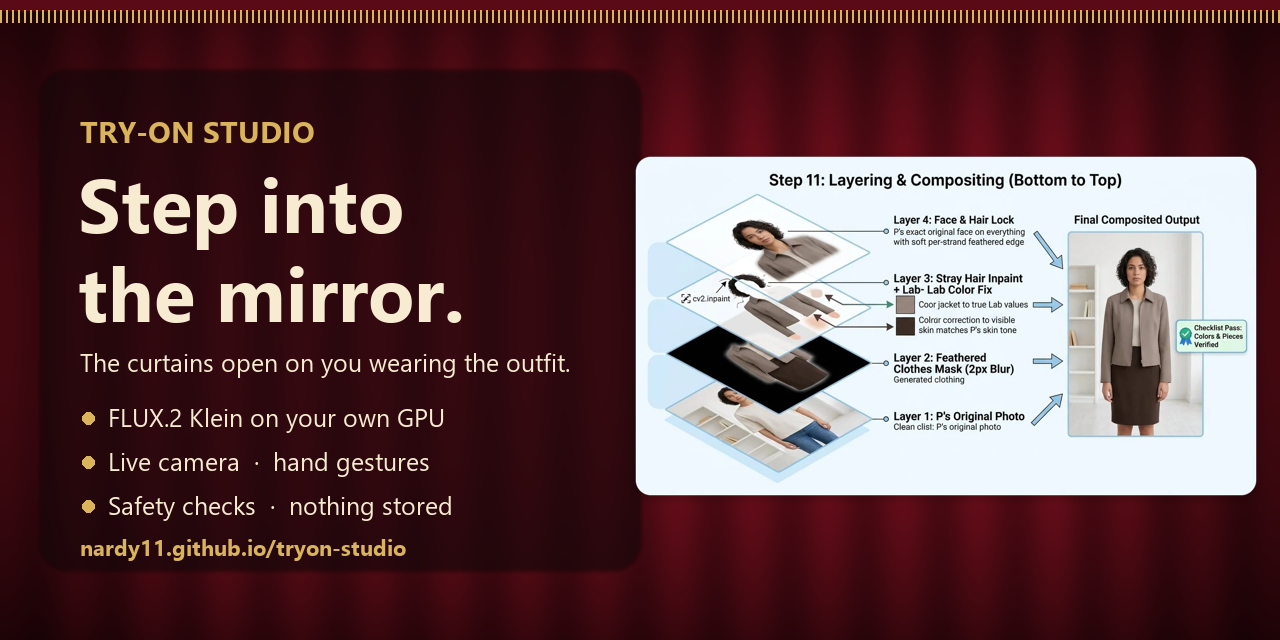
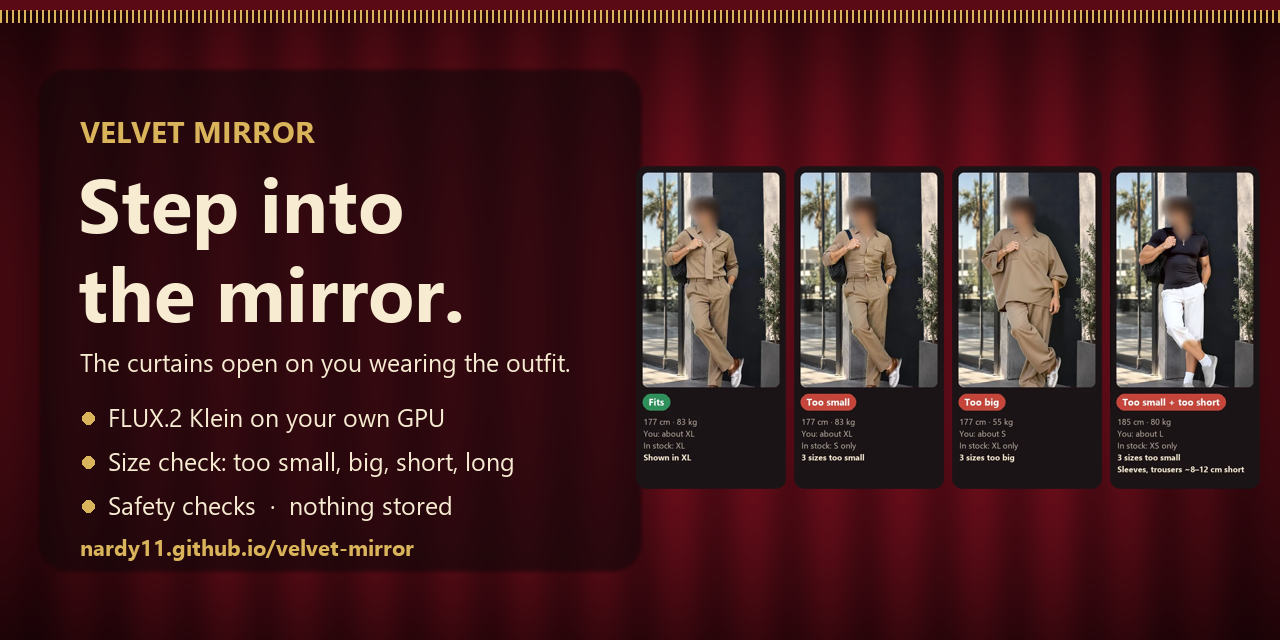
Rename to Velvet Mirror; size-check overview in the README

diff --git a/web/vite.config.ts b/web/vite.config.ts
@@ -11,8 +11,8 @@ const http = env.TRYON_HTTP === '1';
 
 export default defineConfig({
   // GitHub Pages serves the site under /<repo>/; the deploy workflow sets VITE_BASE.
-  // Given without slashes ("tryon-studio"): Git Bash on Windows rewrites a value starting with "/"
-  // into a Windows path ("/Program Files/Git/tryon-studio/") and the site loads nothing.
+  // Given without slashes ("velvet-mirror"): Git Bash on Windows rewrites a value starting with "/"
+  // into a Windows path ("/Program Files/Git/velvet-mirror/") and the site loads nothing.
   base: env.VITE_BASE ? `/${env.VITE_BASE.split(/[\/]+/).filter(Boolean).pop()}/` : '/',
   plugins: http ? [react()] : [react(), basicSsl()],
   server: {

diff --git a/web/index.html b/web/index.html
@@ -3,7 +3,7 @@
   <head>
     <meta charset="UTF-8" />
     <meta name="viewport" content="width=device-width, initial-scale=1, viewport-fit=cover" />
-    <title>Fitting Room</title>
+    <title>Velvet Mirror</title>
     <link rel="preconnect" href="https://fonts.googleapis.com" />
     <link rel="preconnect" href="https://fonts.gstatic.com" crossorigin />
     <link

diff --git a/web/src/App.tsx b/web/src/App.tsx
@@ -418,7 +418,7 @@ export default function App() {
       <header className="topbar">
         <div className="brand">
           <span className="brand-mark" aria-hidden="true" />
-          <h1>Fitting Room</h1>
+          <h1>Velvet Mirror</h1>
         </div>
         <ServerPill health={health} down={serverDown} />
       </header>

diff --git a/web/src/styles.css b/web/src/styles.css
@@ -1,4 +1,4 @@
-/* Fitting Room — cool mirror-glass neutrals, ink controls, one tape-measure yellow used only
+/* Velvet Mirror — cool mirror-glass neutrals, ink controls, one tape-measure yellow used only
    for the curtain and progress. Layout: setup steps on the left, the mirror on the right. */
 :root {
   --bg: #eceff3;

diff --git a/research/r0_bench.py b/research/r0_bench.py
@@ -1,0 +1,96 @@
+"""R0 benchmark: StreamDiffusionV2 (Wan 2.1 1.3B, causal, few-step) as a real-time video-to-video base.
+
+Measures, on this machine: steady frames per second, delay per chunk, peak GPU memory, and saves the
+output video next to the input for a side-by-side look at identity and background drift.
+
+Run inside the WSL venv (research/setup_wsl.sh), from ~/sdv2 so the model paths resolve:
+  python /mnt/c/.../research/r0_bench.py --video <clip.mp4> --height 320 --width 576 --seconds 6
+"""
+
+from __future__ import annotations
+
+import argparse
+import json
+import os
+import time
+
+import numpy as np
+import torch
+
+PROMPT = (
+    "The person is wearing a khaki long-sleeve button shirt with two chest pockets and a cream sweater "
+    "tied over the shoulders, realistic, same face, same room"
+)
+
+
+def main() -> None:
+    ap = argparse.ArgumentParser()
+    ap.add_argument("--video", required=True)
+    ap.add_argument("--prompt", default=PROMPT)
+    ap.add_argument("--height", type=int, default=320)
+    ap.add_argument("--width", type=int, default=576)
+    ap.add_argument("--seconds", type=float, default=6.0, help="how much of the input to process")
+    ap.add_argument("--mode", default="single-wo", choices=["single", "single-wo"])
+    ap.add_argument("--fast", action="store_true", help="TAEHV decoder (+ TensorRT where available)")
+    ap.add_argument("--out", required=True, help="output folder")
+    a = ap.parse_args()
+
+    from streamdiffusionv2 import StreamDiffusionV2Pipeline, export_video, load_video
+
+    os.makedirs(a.out, exist_ok=True)
+    tag = f"{a.height}x{a.width}-{a.mode}{'-fast' if a.fast else ''}"
+    torch.cuda.reset_peak_memory_stats()
+
+    t0 = time.time()
+    stream = StreamDiffusionV2Pipeline(checkpoint_folder="ckpts/wan_causal_dmd_v2v", mode=a.mode)
+    if a.fast:
+        stream.enable_acceleration(fast=True)
+    stream.prepare(a.prompt)
+    load_s = time.time() - t0
+
+    video = load_video(a.video, height=a.height, width=a.width)
+    keep = int(a.seconds * 16)  # the pipeline works at 16 fps
+    video = video[:keep] if hasattr(video, "__getitem__") else video
+
+    decoded, chunk_times, chunk_frames = [], [], []
+    noise_scale = stream.noise_scale
+    for video_chunk in stream.chunk_video(video):
+        torch.cuda.synchronize()
+        c0 = time.time()
+        enc = stream.encode_chunk(video, video_chunk, previous_noise_scale=noise_scale, initial_noise_scale=stream.noise_scale)
+        noise_scale = enc.noise_scale
+        den = stream.denoise_chunk(enc)
+        if den is None:
+            continue
+        out = stream.decode_chunk(den)
+        torch.cuda.synchronize()
+        chunk_times.append(time.time() - c0)
+        chunk_frames.append(len(out))
+        decoded.append(out)
+
+    output = np.concatenate(decoded, axis=0)
+    export_video(output, os.path.join(a.out, f"r0-{tag}.mp4"), fps=16)
+
+    # Steady state: leave out the first chunk (warm-up, cache filling).
+    t = chunk_times[1:] or chunk_times
+    f = chunk_frames[1:] or chunk_frames
+    result = {
+        "tag": tag,
+        "gpu": torch.cuda.get_device_name(0),
+        "resolution": f"{a.width}x{a.height}",
+        "mode": a.mode,
+        "fast_decoder": a.fast,
+        "load_s": round(load_s, 1),
+        "frames_out": int(output.shape[0]),
+        "steady_fps": round(sum(f) / sum(t), 2),
+        "chunk_delay_s_median": round(float(np.median(t)), 3),
+        "frames_per_chunk": int(np.median(f)),
+        "peak_vram_gb": round(torch.cuda.max_memory_allocated() / 1e9, 2),
+    }
+    print(json.dumps(result))
+    with open(os.path.join(a.out, "r0-results.jsonl"), "a", encoding="utf-8") as fh:
+        fh.write(json.dumps(result) + "\n")
+
+
+if __name__ == "__main__":
+    main()

diff --git a/server/app/main.py b/server/app/main.py
@@ -35,7 +35,7 @@ ENGINES = {
 jobs = JobManager(ENGINES)
 safety.warm_up()
 
-app = FastAPI(title="Try-On Studio API", version="0.1.0")
+app = FastAPI(title="Velvet Mirror API", version="0.1.0")
 app.add_middleware(
     CORSMiddleware,
     allow_origins=list(settings.cors_origins),

diff --git a/docs/PLAN.md b/docs/PLAN.md
@@ -1,12 +1,12 @@
-# Fitting Room: plan
+# Velvet Mirror: plan
 
 ## Goal
 
 A reusable try-on block that drops into any shop. A shopper sees themselves wearing a garment
 from the front, side and back. It runs on **our own GPU servers**, not a vendor API.
 
-The reference product is Anywear (Decart). It streams the camera to Decart's GPUs over WebRTC, and
-their Lucy VTON video model redraws every frame live, at about 2 credits per second.
+Commercial live try-on products stream the camera to a vendor's GPUs over WebRTC, where a video
+model redraws every frame live and is billed per second of video.
 
 We start with **photo mode**, which is far cheaper because the GPU works for a few seconds per photo
 instead of every second of video. Live video comes later, on the same garment and engine
@@ -16,7 +16,7 @@ foundations.
 
 | Phase | What | Status |
 |---|---|---|
-| **1. Website, photo mode, local GPU** | Fitting Room site, FastAPI GPU service, FLUX.2 Klein + CatVTON + 2D overlay, job queue, in-memory privacy | **Built in this repo** |
+| **1. Website, photo mode, local GPU** | Velvet Mirror site, FastAPI GPU service, FLUX.2 Klein + CatVTON + 2D overlay, job queue, in-memory privacy | **Built in this repo** |
 | 2. Quality pass | Run the evaluation set (below), tune prompts, decide whether Klein needs a try-on LoRA fine-tune | Next |
 | 3. Server deployment | Docker image, scale-to-zero GPU workers, object-store-free (in-memory) results, per-tenant API keys, rate limits, metering | |
 | 4. Embeddable widget | `<tryon-mirror>` web component + one-line script tag for any shop page | |
@@ -28,7 +28,7 @@ foundations.
 ```
 Browser (web/)                                  GPU server (server/)
 ──────────────────────────────                  ─────────────────────────────────────────
-Fitting Room UI                                  FastAPI  /api/tryon  /api/jobs/{id}
+Velvet Mirror UI                                  FastAPI  /api/tryon  /api/jobs/{id}
  ├─ photo slots: front / side / back             │
  ├─ garment front (+ optional back)              ▼
  ├─ 2D overlay (MediaPipe Pose, in-browser) ◄─┐  JobManager: bounded queue, ONE worker thread,

diff --git a/README.md b/README.md
@@ -1,6 +1,6 @@
 <div align="center">
 
-# 🪞 Try-On Studio
+# 🪞 Velvet Mirror
 
 **Step into the mirror. Pick an outfit. The curtains open on you wearing it.**
 
@@ -8,7 +8,7 @@ A self-hosted virtual try-on: upload a photo (or use your camera), add one or mo
 and see yourself in them — your own face, pose and background, with the clothes changed and
 nothing else.
 
-**[▶ Open the live site](https://nardy11.github.io/tryon-studio/)** ·
+**[▶ Open the live site](https://nardy11.github.io/velvet-mirror/)** ·
 [How it works](#-how-it-works-step-by-step) ·
 [Safety & privacy](#-safety--privacy) ·
 [Run it yourself](#-run-it-yourself)
@@ -19,7 +19,7 @@ nothing else.
 ![FastAPI](https://img.shields.io/badge/server-FastAPI%20%2B%20PyTorch-009688)
 ![Self-hosted GPU](https://img.shields.io/badge/runs%20on-your%20own%20GPU-76b900)
 [![MIT licence](https://img.shields.io/badge/licence-MIT-blue)](LICENSE)
-[![Release](https://img.shields.io/github/v/release/Nardy11/tryon-studio?color=d9b45a)](https://github.com/Nardy11/tryon-studio/releases)
+[![Release](https://img.shields.io/github/v/release/Nardy11/velvet-mirror?color=d9b45a)](https://github.com/Nardy11/velvet-mirror/releases)
 
 </div>
 
@@ -130,6 +130,12 @@ or too long, so you see the fit before you order.
 ![Fit gallery: fits, too small, too big, too small and too short](docs/images/fit-gallery.webp)
 
 <sub>The same person and outfit, only the size changes. Faces are blurred in these examples.</sub>
+
+### The whole size check at a glance
+
+![How the size check works: measure, compare with the sizes in stock, draw the fit, check it](docs/images/fit-process.webp)
+
+<sub>An overview. The exact numbers used are in the tables below.</sub>
 
 ### Your size, from your photo and numbers
 
@@ -243,7 +249,7 @@ cloudflared tunnel --url http://localhost:8000
 ```
 
 Copy the `https://….trycloudflare.com` address it prints, then share
-`https://nardy11.github.io/tryon-studio/?server=<that address>`. Visitors use your GPU while the
+`https://nardy11.github.io/velvet-mirror/?server=<that address>`. Visitors use your GPU while the
 laptop is on and the tunnel is running.
 
 ### Settings

diff --git a/research/README.md b/research/README.md
@@ -1,10 +1,10 @@
 # Engine V research: a real-time video try-on model
 
-Goal: Live mode like Anywear. The person is redrawn wearing the outfit on every frame, at
+Goal: a real-time Live mode. The person is redrawn wearing the outfit on every frame, at
 15–20 processed fps, self-hosted. Plan and costs: see the plan of 2026-11-08, phases R0–R5.
 Data, frames, checkpoints and the research venv stay local (git-ignored).
 
-## Quality bar, read from the reference recording (Anywear, `my-session (1).mp4`)
+## Quality bar, read from a reference recording of a commercial live try-on
 
 | | Reference |
 |---|---|
@@ -22,5 +22,8 @@ speed. That is what Engine V is measured against in R5, alongside fps and latenc
 
 1. ✅ Reference frames extracted to `research/eval/reference-frames/` (every 1.5 s) and the quality bar above.
 2. ⏳ StreamDiffusionV2 (Apache 2.0) on the laptop RTX 4060 8 GB at 320–480p: fps, latency, VRAM, identity drift.
+   - Linux only, so it runs in the laptop's existing WSL2 Ubuntu.
+   - Downloads: `Wan-AI/Wan2.1-T2V-1.3B` 17.6 GB (Apache 2.0, confirmed on the model card; 11.4 GB of it is the umt5-xxl text encoder, which goes on the CPU) and `jerryfeng/StreamDiffusionV2` `wan_causal_dmd_v2v/` 5.7 GB (Apache 2.0), plus the TAEHV decoder (MIT, small).
+   - Disk: about 30 GB with the Python environment; C: had 42 GB free on 2026-11-08.
 3. ⏳ The same on a rented RTX 4090 and an H100 (budget approval first).
 4. Exit: a measured table and the serving-GPU decision.

diff --git a/docs/how-the-tryon-works.md b/docs/how-the-tryon-works.md
@@ -156,6 +156,6 @@ Deleting a job also stops its generation on the GPU.
 ## Still open
 
 - The safety checks have been tested on simulated images, not real underwear, swimwear or nude photos. A licensed test set should be run before launch.
-- What the app does with photos on its side (database, S3) is outside this server. Rules: `tryon-studio\docs\SAFETY.md`.
+- What the app does with photos on its side (database, S3) is outside this server. Rules: `docs\SAFETY.md`.
 - The server has no login or rate limit.
 - Accessories can swap (the model's watch instead of the person's), and shoes aren't changed.
